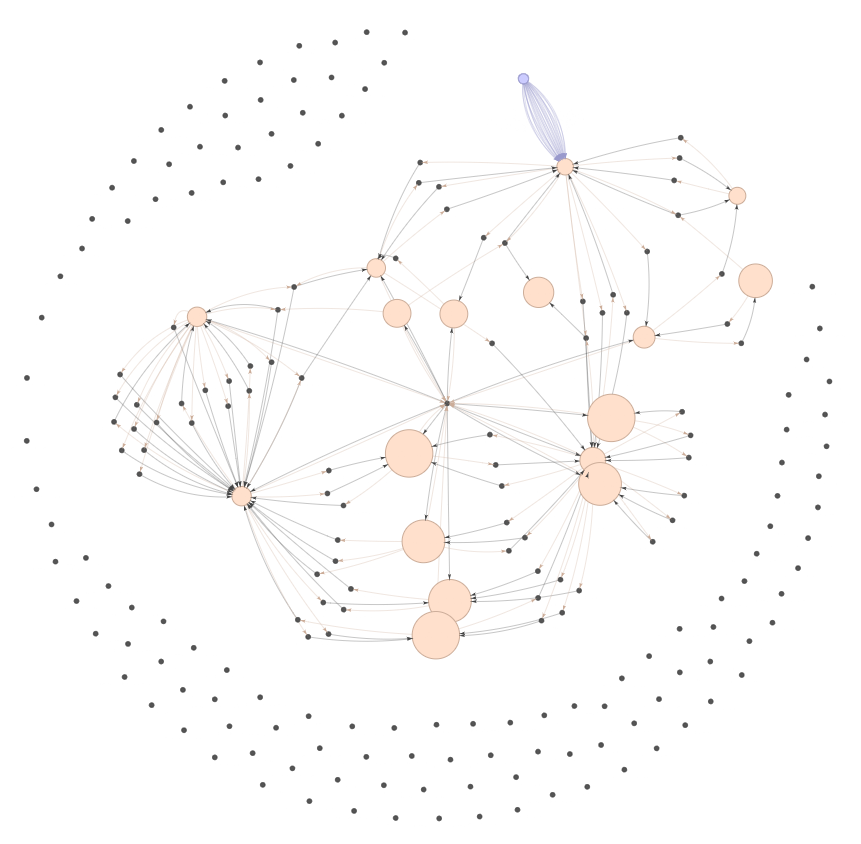
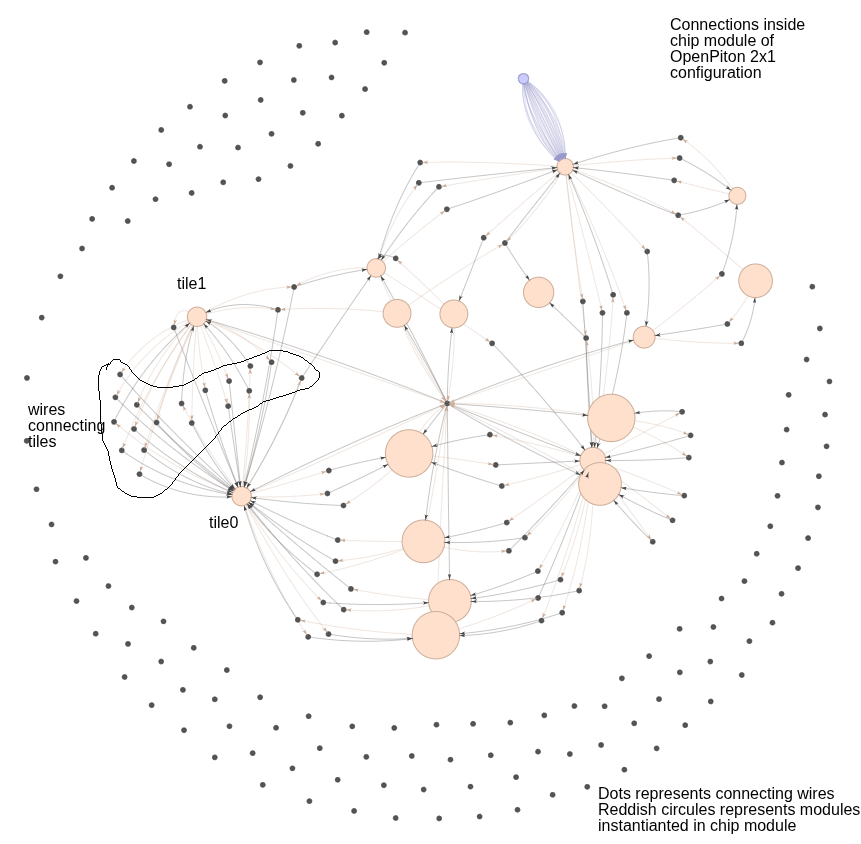
Report

diff --git a/_projects/Metro-MPI++.md b/_projects/Metro-MPI++.md
@@ -138,7 +138,17 @@ Once this "best" group is identified, the algorithm designates their common modu
 
 ### Detailed Connectivity Analysis
 
-Once partition instances are identified, the `PartitionPortAnalyzer` class conducts a deep analysis of the parent module's netlist to understand the data flow.
+Once partition instances are identified, the `PartitionPortAnalyzer` class conducts a deep analysis of the parent module's netlist to understand the data flow. The reason why this step in important is because until we don't know which port of which module instance is connected to which peer, we woun't be able to make the MPI structures that will be used to carry the information across multiple processes/MPI ranks. 
+  <div class="row mt-3">
+      <div class="col-sm mt-3 mt-md-0">
+          {% include figure.liquid loading="eager" path="assets/img/mmpi-connections.png" class="img-fluid rounded z-depth-1" %}
+      </div>
+  </div>
+  <div class="caption">
+      Representation of chip module of OpenPiton 2x1 configuration. 
+  </div>
+This analysis also serves as an optimization that helps to reduce the data movement between MPI ranks during runtime. For example, It is evident fromt he above image that the 2 tiles are connected via vires which are defined in the chip module and inherently, the data should flow from tile0 to chip to tile1 and vice versa but we don't need the messages to pass through the chip module in case the 2 instances are communicating with each other. So to avoid this, this analysis tries to recursively look into the connections of each port of each module instances and tries to classify which ports are expecting data from which other ports, which of them are initialisation(just one time data movement) and which are of type "logic" i.e. the port is being driven by some logic inside the parent module(here, it is tile module). More details of this analysis is mentioned below:
+
 * It traces signals through chained `assign` statements using the `resolveWireChain` function to find the ultimate source wire for any given port connection.
 * It applies a sophisticated filtering logic that intelligently prioritizes true `Output` ports as data originators over passive, passthrough `assign` statements, resulting in a cleaner data-flow graph.
 * The analyzer is capable of finding the direction of ports on any instantiated module within the parent scope, whether it is a designated partition or not, by maintaining a map of instance names to their AST definitions (`m_instanceToModulePtr`).
